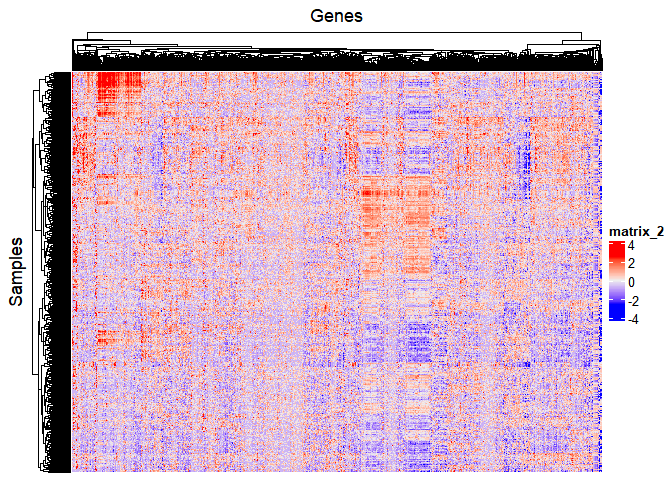
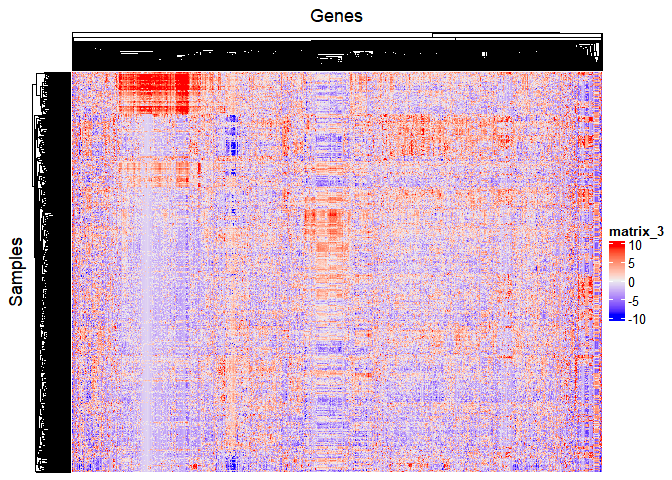
Change clustering method to "average" Add gene enrichment

diff --git a/Dima_Zubkov/Report_DZ_2.md b/Dima_Zubkov/Report_DZ_2.md
@@ -2,16 +2,16 @@
 
 ### Log2 (imputed values), median centered, no scaling
 
-![](Report_DZ_2_files/figure-markdown_strict/heatmap_4-1.png)
+![](Report_DZ_2_files/figure-markdown_strict/heatmap_1-1.png)
 
 ### Log2 (imputed values), median centered, mad scaled
 
-![](Report_DZ_2_files/figure-markdown_strict/heatmap_3-1.png)
+![](Report_DZ_2_files/figure-markdown_strict/heatmap_2-1.png)
 
 ### Log2 (imputed values), mean centered, no scaling
 
-![](Report_DZ_2_files/figure-markdown_strict/heatmap_2-1.png)
+![](Report_DZ_2_files/figure-markdown_strict/heatmap_3-1.png)
 
 ### Log2 (imputed values), mean centered, sd scaled
 
-![](Report_DZ_2_files/figure-markdown_strict/heatmap_1-1.png)![](Report_DZ_2_files/figure-markdown_strict/heatmap_1-2.png)![](Report_DZ_2_files/figure-markdown_strict/heatmap_1-3.png)
+![](Report_DZ_2_files/figure-markdown_strict/heatmap_4-1.png)![](Report_DZ_2_files/figure-markdown_strict/heatmap_4-2.png)![](Report_DZ_2_files/figure-markdown_strict/heatmap_4-3.png)![](Report_DZ_2_files/figure-markdown_strict/heatmap_4-4.png)
